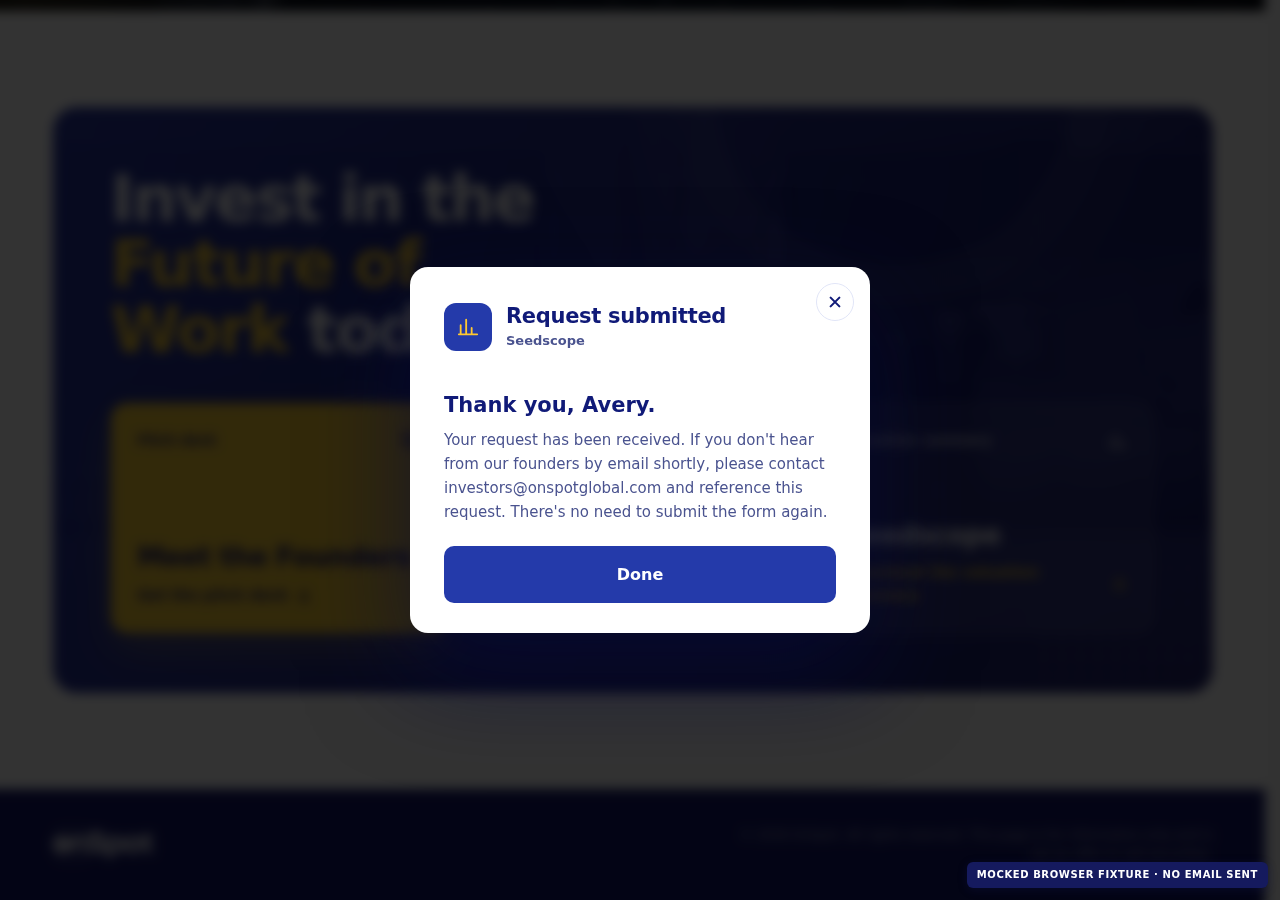
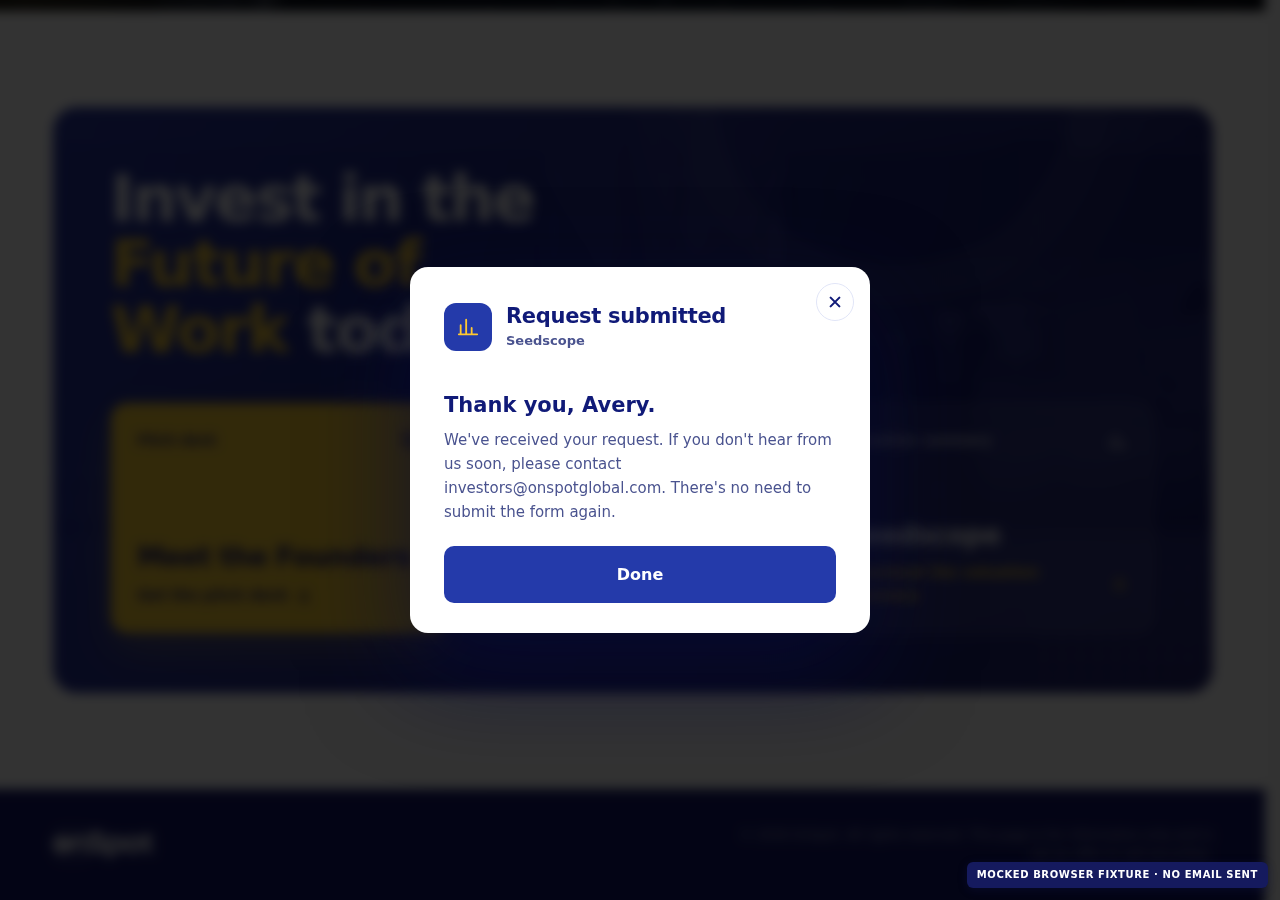
Update investor document request flow and test expectations
Replit-Commit-Author: Agent

Changed region(s): [[0.3438, 0.4667, 0.6562, 0.5911]]

diff --git a/browser-tests/investor-documents.browser.test.ts b/browser-tests/investor-documents.browser.test.ts
@@ -429,7 +429,10 @@ test("validation and typing keep focus, and submit carries document provenance",
     website: "",
   });
   assert.match((await dialog.textContent())!, /We've received your request for the OnSpot pitch deck/);
-  assert.match((await dialog.textContent())!, /respond to you by email at avery@example\.org/);
+  assert.equal(await dialog.locator(".investor-doc-result strong").innerText(), "Thank you, Avery.");
+  assert.equal(await dialog.locator(".investor-doc-result p").innerText(),
+    "We've received your request for the OnSpot pitch deck. Our founders will review it personally and be in touch with you by email.");
+  assert.doesNotMatch(await dialog.getByRole("status").innerText(), /@/);
   assert.equal(await dialog.locator("a[download]").count(), 0);
   await page.screenshot({ path: join(screenshotDir, "confirmation-sent.png"), animations: "disabled" });
   await page.close();
@@ -467,11 +470,14 @@ for (const outcome of ["notification-failed", "server-error", "network-error", "
       await dialog.getByRole("status").waitFor();
       const content = await dialog.textContent();
       if (outcome === "network-error") assert.match(content!, /couldn’t confirm/);
-      else assert.match(content!, /Your request has been received/);
+      else assert.match(content!, /We've received your request/);
     }
     if (outcome === "notification-failed") {
       assert.match(await dialog.locator('[role="status"]').innerText(), /Thank you, Avery\./);
       assert.match(await dialog.locator('[role="status"]').innerText(), /investors@onspotglobal\.com/);
+      assert.equal(await dialog.locator(".investor-doc-result p").innerText(),
+        "We've received your request. If you don't hear from us soon, please contact investors@onspotglobal.com. There's no need to submit the form again.");
+      assert.deepEqual((await dialog.getByRole("status").innerText()).match(/\S+@\S+/g), ["investors@onspotglobal.com."]);
       await markMockFixture(page);
       await page.screenshot({ path: join(screenshotDir, "confirmation-failed.png"), animations: "disabled" });
     }

diff --git a/client/src/components/InvestorDocumentDialog.tsx b/client/src/components/InvestorDocumentDialog.tsx
@@ -421,11 +421,11 @@ export function InvestorDocumentDialog({
             </strong>
             {submission.kind === "sent" ? (
               <p>
-                We&apos;ve received your request for the {document === "deck" ? "OnSpot pitch deck" : "Seedscope valuation summary"}. Our founders will review it personally and respond to you by email at {email.trim()}.
+                We&apos;ve received your request for the {document === "deck" ? "OnSpot pitch deck" : "Seedscope valuation summary"}. Our founders will review it personally and be in touch with you by email.
               </p>
             ) : submission.kind === "saved-notification-failed" ? (
               <p>
-                Your request has been received. If you don&apos;t hear from our founders by email shortly, please contact investors@onspotglobal.com and reference this request. There&apos;s no need to submit the form again.
+                We&apos;ve received your request. If you don&apos;t hear from us soon, please contact investors@onspotglobal.com. There&apos;s no need to submit the form again.
               </p>
             ) : submission.kind === "saved-status-unknown" ? (
               <p>

diff --git a/.agents/memory/investor-request-routing.md b/.agents/memory/investor-request-routing.md
@@ -21,8 +21,14 @@ Document intake is a request for personal founder follow-up, not automatic docum
 
 **How to apply:** Keep success copy about the saved request and founder follow-up; distinguish provider acceptance from actual inbox receipt during verification. Never send development test messages to the founders in place of an approved test inbox.
 
-Omit the contact email row from investor notification bodies, while retaining the investor's address in Reply-To and storage. Website confirmations are unchanged by this rule.
+Omit the contact email row from investor notification bodies, while retaining the investor's address in Reply-To and storage. Website confirmations follow their own copy policy below.
 
 **Why:** On 2026-11-03 the owner explicitly chose "Notification email body" when clarifying where the displayed email address should be removed.
 
 **How to apply:** Do not reintroduce an email table row or mailto link into founder notifications. Keep sender/recipient routing and direct-reply behavior intact.
+
+Do not display any email address in document-request confirmations, except the shared investor contact mailbox in the saved-notification-failed state.
+
+**Why:** On 2026-11-03 the owner explicitly superseded the earlier success copy that echoed the visitor's email. Confirmations should describe personal founder follow-up without displaying contact addresses.
+
+**How to apply:** Keep the visitor email for intake and Reply-To, not confirmation interpolation. Preserve the thank-you heading, Request submitted title, Done action and other result states.
